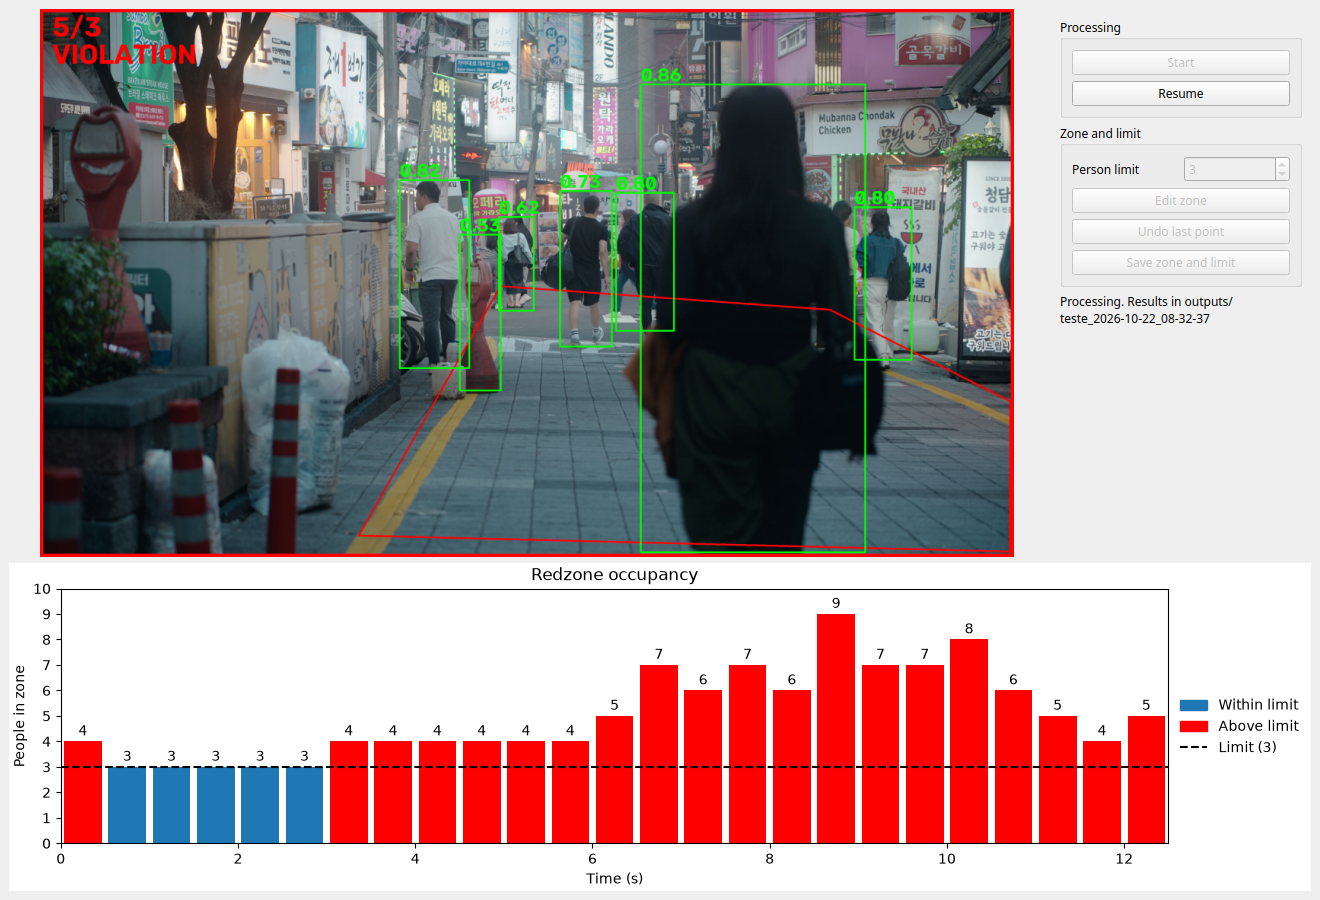
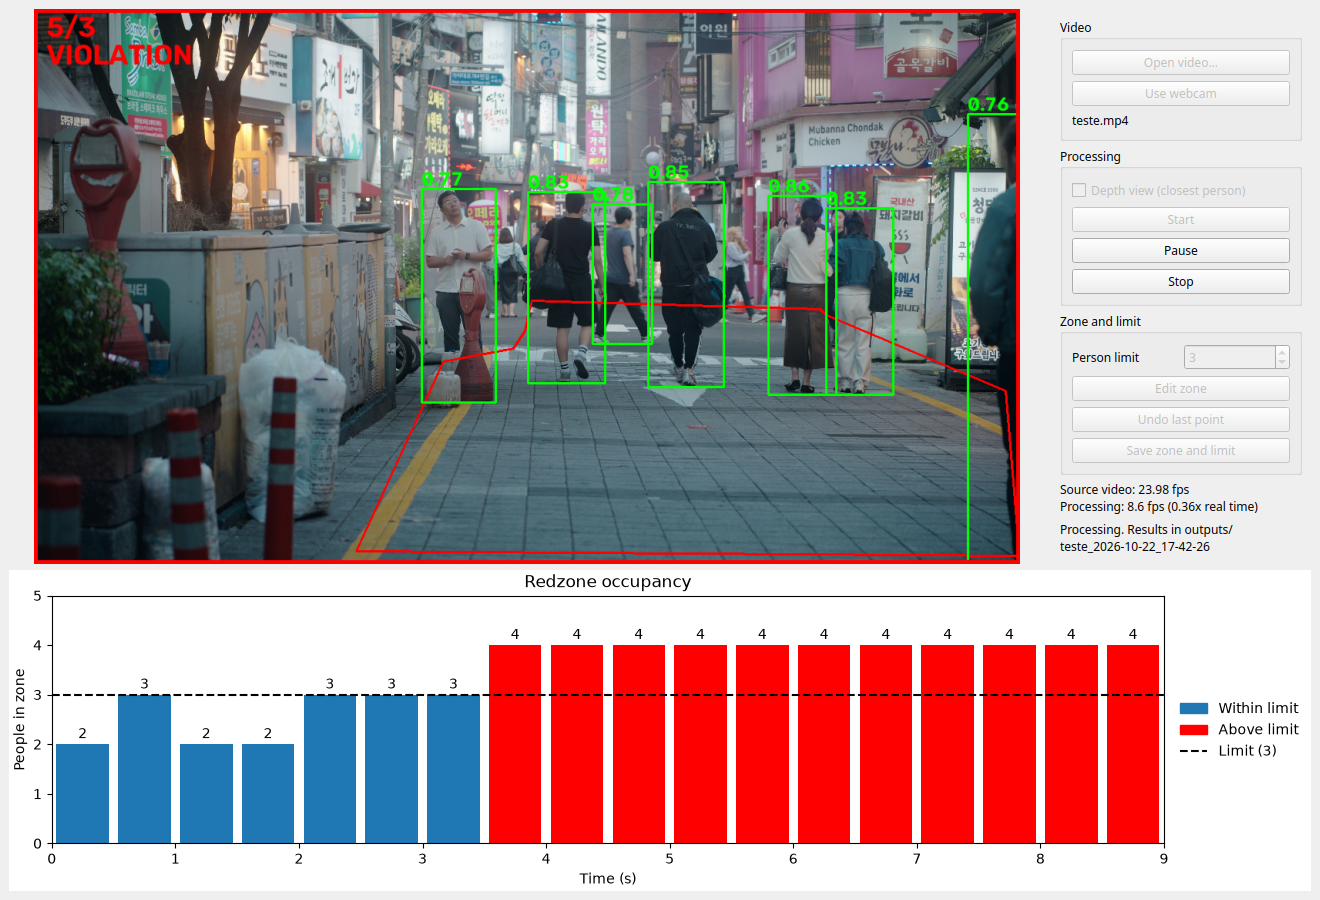
(added): readme

diff --git a/README.md b/README.md
@@ -1,6 +1,6 @@
 # Person Detector
 
-> **Person Detector** is a computer vision pipeline that counts people inside a user-defined red zone of a recorded video, turns noisy per-frame counts into stable violation events, and saves every violation as a clip with the detections drawn on it.
+> **Person Detector** is a computer vision pipeline that counts people inside a user-defined red zone of a recorded video or a live webcam, turns noisy per-frame counts into stable violation events, saves every violation as a clip with the detections drawn on it, and can show who is the closest person to the camera.
 
 <div align="left">
 
@@ -46,28 +46,34 @@ poetry run python main.py --video videos/teste.mp4
 ```
 
 ```
-frame 0: 4 people in zone
+frame 0: 2 people in zone
 frame 50: 3 people in zone
 frame 100: 4 people in zone
-frame 150: 6 people in zone
-frame 200: 6 people in zone
-frame 250: 6 people in zone
-frame 300: 4 people in zone
-frame 350: 4 people in zone
+frame 150: 4 people in zone
+frame 200: 4 people in zone
+frame 250: 4 people in zone
+frame 300: 2 people in zone
+frame 350: 2 people in zone
+Processed 361 frames in 24.4 s (14.8 fps)
 ```
 
 ```
-outputs/teste_2026-10-22_08-04-33/
+outputs/teste_2026-10-22_17-40-37/
 ├── charts/occupancy.png
 ├── clips/violation_001.mp4
-├── clips/violation_002.mp4
 ├── csv/events.csv
 └── csv/series.csv
 ```
 
-The same pipeline in the desktop window: live video with detections, live occupancy chart, and a panel to draw the zone and set the limit.
+That output comes from the sample video with a zone drawn for it and a limit of 3. The zone is saved in the config, so draw your own first (see [Usage](#usage)) before expecting the same numbers.
+
+The same pipeline in the desktop window: live video with detections, a live occupancy chart, and a side panel to pick the source, draw the zone and set the limit. Here a violation is in progress (4 people in a zone limited to 3).
 
 ![Window](docs/window.png)
+
+With **Depth view** on, a second panel shows a depth map next to the video. Everyone is ranked by how close they are to the camera, and the closest person is highlighted in magenta in both panels.
+
+![Window with the depth view](docs/window_depth.png)
 
 ---
 
@@ -75,16 +81,17 @@ The same pipeline in the desktop window: live video with detections, live occupa
 
 | Capability | Description |
 |---|---|
-| **Depth view** | Optional second panel with a depth map. It ranks everyone by closeness (#1 is the closest) and highlights the closest person in both views |
+| **Video or webcam** | Pick a video file from your computer inside the window, or detect live from the webcam. Times, chart and clips follow the real clock, so a slow machine does not distort them |
 | **Zone-based counting** | A person counts when at least `counting.min_overlap_percent` of their bounding box area is inside the zone polygon (default 30%) |
 | **Debounce** | A violation starts after N consecutive frames above the limit, ends after M consecutive frames at or below it, with a cooldown between events |
-| **Clips with context** | Each violation is saved with seconds of video from before the event (circular buffer) and after it, with the overlay drawn on |
+| **Closest person** | Optional second panel with a depth map. It ranks everyone by closeness (#1 is the closest) and highlights the closest person in both views. The highlight only moves after the change holds for a few frames |
+| **Clips with context** | Each violation is saved with seconds of video from before the event (circular buffer) and after it, with the overlay drawn on. Encoding runs in a background thread, so a clip never stalls the processing |
 | **Logs** | `series.csv` with the count of every frame and `events.csv` with the start, end, peak and clip of every violation |
-| **Occupancy chart** | Bars with time on the horizontal axis and people on the vertical one, red above the limit, with the limit line |
-| **Desktop window** | Live video, live chart, and a zone and limit editor in a single screen (PySide6) |
+| **Occupancy chart** | Bars with time on the horizontal axis and people on the vertical one, red above the limit, with the limit line. In the window it refreshes once per second of video |
+| **Desktop window** | Live video, live chart, depth view and a zone and limit editor in a single screen (PySide6). It has Start, Pause and Stop, and the image refits whenever the window or a panel changes size |
 | **Speed readout** | The window shows the fps of the source video and the real processing speed (current and average, also as a multiple of real time); the CLI prints the average at the end |
 | **Calibration** | Draw the zone by clicking on a frame, from the window or from the command line |
-| **Configurable** | Model, confidence, zone, limit, debounce and clip length live in one YAML file |
+| **Configurable** | Model, confidence, zone, counting rule, limit, debounce, clip length and depth settings live in one YAML file |
 | **CPU only** | Runs with the CPU build of PyTorch |
 
 ---
@@ -96,6 +103,7 @@ The same pipeline in the desktop window: live video with detections, live occupa
 | [Python](https://python.org) 3.12 | Core language |
 | [Ultralytics YOLO](https://docs.ultralytics.com) | Person detection |
 | [PyTorch](https://pytorch.org) (CPU build) | Inference backend |
+| [Transformers](https://huggingface.co/docs/transformers) and [Depth Anything V2](https://huggingface.co/depth-anything/Depth-Anything-V2-Small-hf) (Small) | Depth estimation for the closest-person view |
 | [OpenCV](https://opencv.org) | Video reading, drawing, clip writing |
 | [PySide6](https://doc.qt.io/qtforpython-6/) | Desktop window |
 | [Matplotlib](https://matplotlib.org) | Occupancy chart (PNG and live) |
@@ -120,9 +128,14 @@ The same pipeline in the desktop window: live video with detections, live occupa
 ├── src/
 │   ├── pipeline.py             per-frame processing, shared by the CLI and the window
 │   ├── person_detector.py      YOLO wrapper
-│   ├── redzone.py              zone polygon and people counting
+│   ├── video_reader.py         video files and live cameras
+│   ├── redzone.py              zone polygon and box-overlap counting
 │   ├── violation.py            debounce state machine
-│   ├── clip_recorder.py        circular buffer and clip writing
+│   ├── clip_recorder.py        time-based circular buffer, clips written in a thread
+│   ├── depth_estimator.py      depth model wrapper and input preparation
+│   ├── depth_runner.py         depth estimation in a background thread
+│   ├── depth_view.py           people ranking by depth and the depth panel drawing
+│   ├── closest_tracker.py      keeps the closest person steady across frames
 │   ├── metrics_logger.py       CSV logging
 │   ├── overlay.py              drawing on frames
 │   ├── chart.py                occupancy chart
@@ -130,7 +143,7 @@ The same pipeline in the desktop window: live video with detections, live occupa
 │   ├── run_dir.py              output folder naming
 │   ├── errors/                 project exceptions
 │   ├── enums/                  shared enums
-│   └── gui/                    window, worker thread, live chart, video label
+│   └── gui/                    window, worker thread, live chart, video label, fps meter
 ├── scripts/
 │   └── tune_parameters.py      offline study of confidence and debounce
 ├── tests/
@@ -140,12 +153,18 @@ The same pipeline in the desktop window: live video with detections, live occupa
 
 **Why this shape:** the frame is reduced once, on entry, so detection, drawing, the clip buffer and the window all work at 1280 pixels wide instead of repeating 4K operations. `Pipeline.process` handles exactly one frame and returns the result, so the CLI loop and the window's worker thread share the same logic instead of duplicating it. The debounce lives in its own class that only sees integer counts, which makes it testable with made-up sequences and no model. No class reads the YAML on its own: the entry points load the config and hand plain values down, so everything can be tested without files. Errors derive from one base exception, so the entry points catch every expected failure in a single `except` and let real bugs surface with a full traceback. Counting uses the share of the box inside the zone instead of a single point, so a person half in and half out is not decided by one pixel. The default is a low 30% on purpose: the zone is drawn on the ground, so for someone standing inside it, only the lower part of their box overlaps it. Raise it to be stricter, lower it to count anyone touching the zone.
 
+Every frame carries its own time. For a file it is `frame / fps`; for a webcam it is measured on the clock, because processing is slower than the camera. The CSVs, the chart and the clips all use that time, and the clip recorder keeps *seconds* of video instead of a number of frames, so a clip made from a slow stream still plays at the speed it was recorded. Clips are encoded in a background thread, which removes the stall that dumping the pre-event buffer used to cause.
+
+The depth model runs in its own thread on every few frames, on a copy of the clean frame, so detection never waits for it. Detections carry no identity, so the closest person is followed from frame to frame by the overlap of their boxes, and the highlight only moves after another person stays the closest for several frames in a row.
+
 **Known limitations:**
-- YOLO on a CPU is the bottleneck: expect a few frames per second on 4K video, not real time.
-- Recorded video only, with no live camera input.
+- YOLO on a CPU is the bottleneck: expect around 10 fps on a modest laptop and a few on 4K video, not real time. The depth panel shares the same cores, so the total fps drops a little with it on.
+- The depth is relative: it compares people inside one frame and is not a distance in meters. It is updated every few frames, so the closest person can lag a little behind quick movements.
+- The webcam is always camera 0, and its image can lag slightly behind reality while the model is busy.
+- The zone is stored in pixels of the source, so it has to be redrawn for a source with another resolution.
 - A single zone polygon per configuration.
 - Clips are written with the `mp4v` codec, because that is what the pip build of OpenCV can encode; some viewers cannot play it.
-- Only the top-level keys of the config are validated, so a missing nested key surfaces as a `KeyError`.
+- Only the top-level keys of the config (and `counting.min_overlap_percent`) are validated, so a missing nested key surfaces as a `KeyError`.
 - The default parameters were checked against a single 15-second video.
 - Developed and tested on Linux only.
 
@@ -170,7 +189,7 @@ poetry env use python3.12
 poetry install
 ```
 
-The first run downloads the YOLO weights (`yolov8n.pt`, about 6 MB) into the project folder. They are git-ignored.
+The first run downloads the YOLO weights (`yolov8n.pt`, about 6 MB) into the project folder. They are git-ignored. The first time you switch the depth view on, the depth model (about 100 MB) is downloaded from Hugging Face into `~/.cache/huggingface`.
 
 ### Environment Variables
 
@@ -212,11 +231,11 @@ poetry run python gui.py
 
 Click **Open video...** and pick a file from your computer (`--video PATH` opens one directly), or click **Use webcam** to detect live from camera 0. The source can be changed between runs, not while it is processing. Then press **Start**.
 
-The video plays with the detections, the chart grows below it, and **Pause** freezes and resumes the processing and **Stop** ends the run early. The side panel shows the fps of the source video and how fast it is actually being processed, in frames per second and as a multiple of real time. While **Edit zone** is active, left click on the video adds a point and right click removes the last one.
+The video plays with the detections and the chart grows below it. **Pause** freezes and resumes the processing, and **Stop** ends the run early. When the video ends, the window goes back to the first frame with an empty chart, ready for another run, and the results stay in the folder shown in the side panel. The side panel also shows the fps of the source video and how fast it is actually being processed, in frames per second and as a multiple of real time. While **Edit zone** is active, left click on the video adds a point and right click removes the last one.
 
-**Depth view.** Tick *Depth view (closest person)* before **Start** to open a second panel next to the video. A depth model estimates, for each pixel, how near it is to the camera. Each person is ranked by the typical depth of the lower, central part of their box, and the closest one is drawn in magenta in both panels. The highlight only moves to someone else after they stay the closest for a few frames in a row, so it does not flicker. The depth is relative (it compares people within the same frame, it is not in meters) and it is estimated in the background every few frames, so it never slows the detection down. It needs the optional `transformers` package: `poetry add transformers`. The model downloads on first use.
+**Depth view.** Tick *Depth view (closest person)* before **Start** to open a second panel next to the video. A depth model estimates, for each pixel, how near it is to the camera. Each person is ranked by the typical depth of the lower, central part of their box, and the closest one is drawn in magenta in both panels. The highlight only moves to someone else after they stay the closest for a few frames in a row, so it does not flicker. The depth is relative (it compares people within the same frame, it is not in meters) and it is estimated in the background every few frames, so it never slows the detection down.
 
-With the webcam the run has no end: press **Stop** when you are done. Times in the CSVs, the chart and the clips follow the real clock, so they stay correct even when processing is slower than the camera. Draw the zone again for the webcam (**Edit zone**), because the zone is stored in pixels of the source video and the camera usually has another resolution.
+**Webcam.** The run has no end: press **Stop** when you are done. Times in the CSVs, the chart and the clips follow the real clock, so they stay correct even when processing is slower than the camera. Draw the zone again for the webcam (**Edit zone**), because the zone is stored in pixels of the source and the camera usually has another resolution.
 
 ---
 
@@ -270,6 +289,10 @@ outputs/
     └── charts/occupancy.png        occupancy over time
 ```
 
+A run on the webcam goes to `webcam_<date>` instead.
+
+![Occupancy chart](docs/occupancy.png)
+
 In the chart, each bar is the median count over a time interval (0.5 s for short videos, growing with the duration so there are about 30 bars at most). Bars above the limit are red, and the dashed line marks the limit.
 
 ---
@@ -282,7 +305,7 @@ poetry run ruff check .    # lint
 poetry run ruff format .   # format
 ```
 
-The tests cover what does not need the model: zone counting, the debounce state machine, the chart bars and axes, the mapping of window clicks to frame pixels, the pipeline using a fake detector, and the window itself, driven without a screen with a generated video (zone editing, start, pause, finish and close).
+The tests cover what does not need a model: zone counting by box overlap, the debounce state machine, the chart bars and axes, the clip recorder and its background thread, config validation, the pipeline using a fake detector, a fake camera and fake depth maps (people ranking, the closest-person confirmation and the depth thread), and the window itself, driven without a screen with a generated video (picking a source, zone editing, start, pause, stop, finish, resizing and close).
 
 `scripts/tune_parameters.py` runs the detector once, caches the result, and evaluates confidence thresholds and debounce settings offline. A larger model runs on a sample of frames and serves as the reference for the count error.
 
@@ -315,6 +338,12 @@ To fix it for the VS Code terminal permanently, add this to the VS Code user set
 **Qt prints warnings about fonts or Wayland.** The lines mentioning `QFontDatabase`, `propagateSizeHints` or `textinput` are harmless.
 
 **A clip does not play in the browser or in the file preview.** It uses the `mp4v` codec. Open it with VLC, or convert it: `ffmpeg -i clip.mp4 -c:v libx264 -pix_fmt yuv420p clip_h264.mp4`.
+
+**`Could not open camera 0`.** No camera was found at index 0, another program is using it, or the user has no permission to read `/dev/video0` (on Linux, being in the `video` group is usually required).
+
+**`The depth view needs the 'transformers' package`.** Run `poetry install` (or `poetry add transformers`) to install the dependency of the depth view.
+
+**The zone is in the wrong place after changing the source.** The zone is saved in pixels of the video it was drawn on. Use **Edit zone** to draw it again for the new source and save it.
 
 **`Could not open video file`.** The path is wrong, or the format is not supported by the FFmpeg backend of OpenCV.
 
